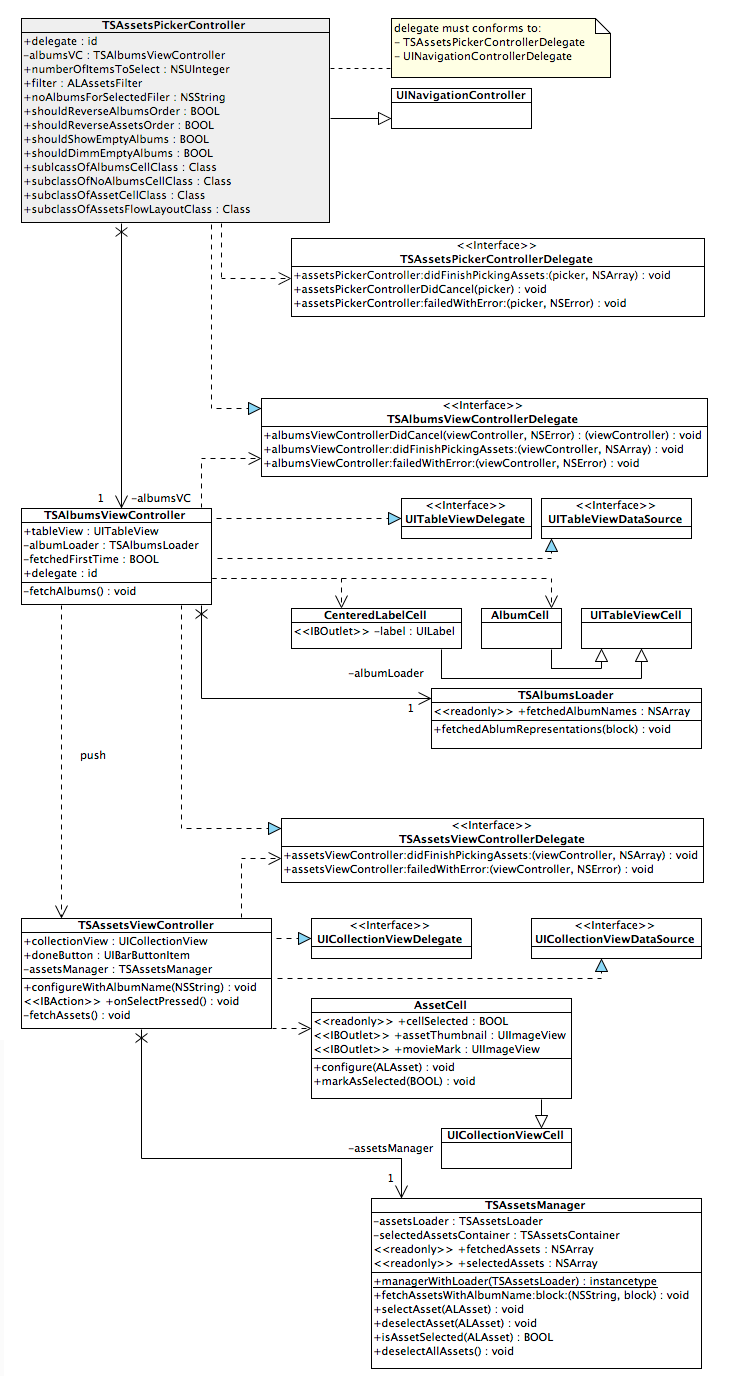
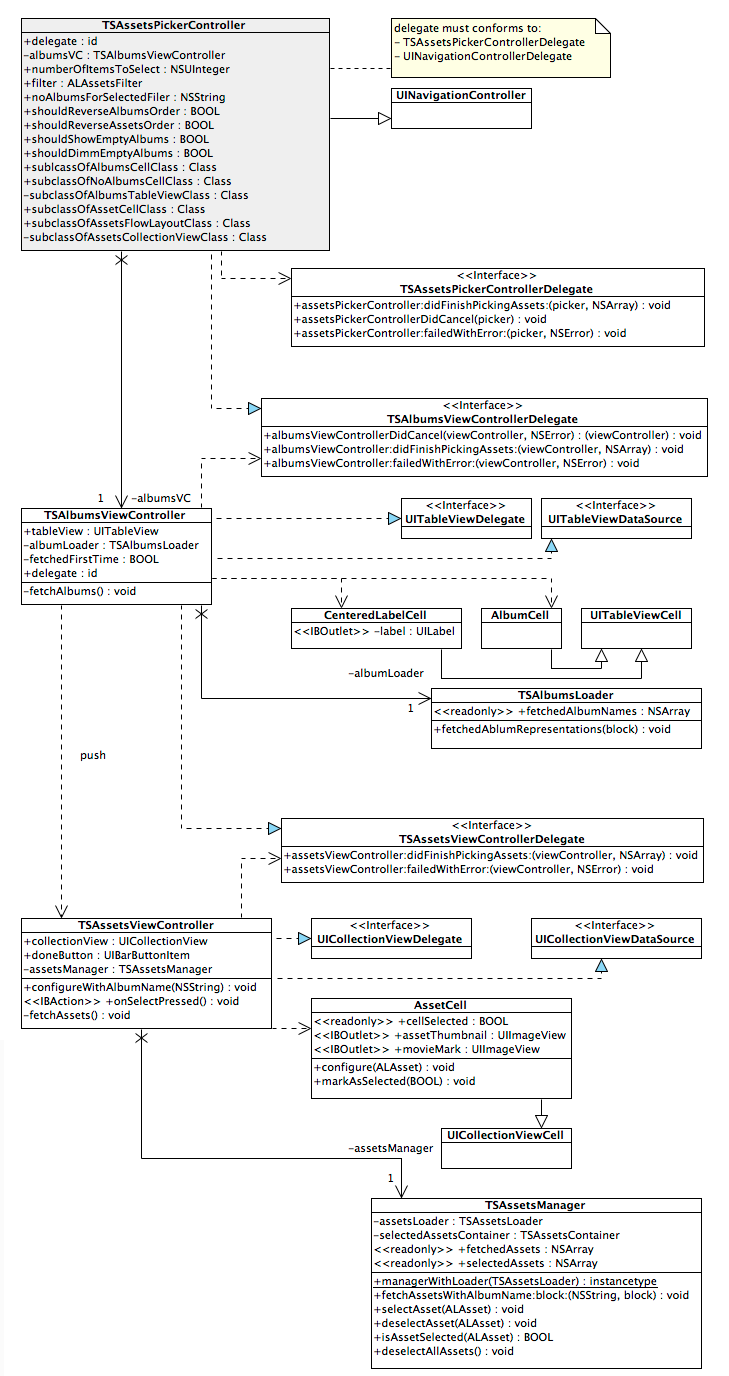
Added AssetsTableView class.

diff --git a/TSAssetsPickerController/TSAssetsPickerController/TSViewController.m b/TSAssetsPickerController/TSAssetsPickerController/TSViewController.m
@@ -13,6 +13,7 @@
 #import "DummyAssetsImporter.h"
 #import "DummyAlbumCell.h"
 #import "DummyNoAlbumsCell.h"
+#import "DummyAlbumsTableView.h"
 #import "DummyAssetCell.h"
 #import "DummyAssetsFlowLayout.h"
 #import "DummyAssetsCollectionView.h"
@@ -61,6 +62,7 @@
         // Custom No Albums Cell which is visible when there is no albums in first view of TSAssetsPickerController
 //        _picker.subclassOfAlbumCellClass = [DummyAlbumCell class];
 //        _picker.subclassOfNoAlbumsCellClass = [DummyNoAlbumsCell class];
+//        _picker.subclassOfAlbumsTableViewClass = [DummyAlbumsTableView class];
 //        _picker.subclassOfAssetCellClass = [DummyAssetCell class];
 //        _picker.subclassOfAssetsFlowLayoutClass = [DummyAssetsFlowLayout class];
 //        _picker.subclassOfAssetsCollectionViewClass = [DummyAssetsCollectionView class];

diff --git a/Classes/Controllers/Picker/TSAssetsPickerController.m b/Classes/Controllers/Picker/TSAssetsPickerController.m
@@ -14,6 +14,7 @@
 #import "NoAlbumsCell.h"
 #import "AssetsFlowLayout.h"
 #import "AssetsCollectionView.h"
+#import "AlbumsTableView.h"
 
 @interface TSAssetsPickerController () < TSAlbumsViewControllerDelegate> {
     TSAlbumsViewController *_albumsVC;
@@ -38,6 +39,7 @@
         
         self.subclassOfAlbumCellClass = [AlbumCell class];
         self.subclassOfNoAlbumsCellClass = [NoAlbumsCell class];
+        self.subclassOfAlbumsTableViewClass = [AlbumsTableView class];
         self.subclassOfAssetCellClass = [AssetCell class];
         self.subclassOfAssetsFlowLayoutClass = [AssetsFlowLayout class];
         self.subclassOfAssetsCollectionViewClass = [AssetsCollectionView class];

diff --git a/Classes/Controllers/Picker/TSAssetsPickerController.h b/Classes/Controllers/Picker/TSAssetsPickerController.h
@@ -68,6 +68,12 @@
 @property (nonatomic) Class subclassOfNoAlbumsCellClass;
 
 /**
+ Set this class if you want to use custom subclass of AlbumsTableView class.
+ This class is UITableView placed in TSAlbumsTableView.
+ */
+@property (nonatomic) Class subclassOfAlbumsTableViewClass;
+
+/**
  Set this class if you want to use custom subclass of AssetCell class.
  This class is used to display assets in Assets view (UICollectionViewCell).
  */

diff --git a/Classes/Controllers/Albums/TSAlbumsViewController.m b/Classes/Controllers/Albums/TSAlbumsViewController.m
@@ -59,7 +59,7 @@
         frame.size.height -= CGRectGetHeight(self.navigationController.navigationBar.frame);
     }
     
-    UITableView *tableView = [[UITableView alloc] initWithFrame:frame style:UITableViewStylePlain];
+    UITableView *tableView = [[_picker.subclassOfAlbumsTableViewClass alloc] initWithFrame:frame style:UITableViewStylePlain];
     tableView.delegate = self;
     tableView.dataSource = self;
     

diff --git a/TSAssetsPickerController/TSAssetsPickerController/Dummy Classes/DummyAlbumsTableView.m b/TSAssetsPickerController/TSAssetsPickerController/Dummy Classes/DummyAlbumsTableView.m
@@ -1,0 +1,18 @@
+//
+//  DummyAlbumsTableView.m
+//  TSAssetsPickerController
+//
+//  Created by Tomasz Szulc on 23.02.2014.
+//  Copyright (c) 2014 Tomasz Szulc. All rights reserved.
+//
+
+#import "DummyAlbumsTableView.h"
+
+@implementation DummyAlbumsTableView
+
+- (void)setNeedsLayout {
+    [super setNeedsLayout];
+    self.backgroundColor = [UIColor redColor];
+}
+
+@end

diff --git a/TSAssetsPickerController/TSAssetsPickerController/Dummy Classes/DummyAlbumsTableView.h b/TSAssetsPickerController/TSAssetsPickerController/Dummy Classes/DummyAlbumsTableView.h
@@ -1,0 +1,13 @@
+//
+//  DummyAlbumsTableView.h
+//  TSAssetsPickerController
+//
+//  Created by Tomasz Szulc on 23.02.2014.
+//  Copyright (c) 2014 Tomasz Szulc. All rights reserved.
+//
+
+#import "AlbumsTableView.h"
+
+@interface DummyAlbumsTableView : AlbumsTableView
+
+@end

diff --git a/TSAssetsPickerController/TSAssetsPickerController/Dummy Classes/DummyAlbumCell.m b/TSAssetsPickerController/TSAssetsPickerController/Dummy Classes/DummyAlbumCell.m
@@ -13,7 +13,8 @@
 - (id)init {
     self = [super init];
     if (self) {
-        self.textLabel.textColor = [UIColor redColor];
+        self.textLabel.textColor = [UIColor greenColor];
+        self.backgroundColor = [UIColor blueColor];
     }
     return self;
 }

diff --git a/Classes/Controllers/Albums/AlbumsTableView.h b/Classes/Controllers/Albums/AlbumsTableView.h
@@ -1,0 +1,13 @@
+//
+//  AlbumsTableView.h
+//  TSAssetsPickerController
+//
+//  Created by Tomasz Szulc on 23.02.2014.
+//  Copyright (c) 2014 Tomasz Szulc. All rights reserved.
+//
+
+#import <UIKit/UIKit.h>
+
+@interface AlbumsTableView : UITableView
+
+@end

diff --git a/Classes/Controllers/Albums/AlbumsTableView.m b/Classes/Controllers/Albums/AlbumsTableView.m
@@ -1,0 +1,13 @@
+//
+//  AlbumsTableView.m
+//  TSAssetsPickerController
+//
+//  Created by Tomasz Szulc on 23.02.2014.
+//  Copyright (c) 2014 Tomasz Szulc. All rights reserved.
+//
+
+#import "AlbumsTableView.h"
+
+@implementation AlbumsTableView
+
+@end

diff --git a/README.md b/README.md
@@ -46,6 +46,7 @@ Configuration
 | shouldDimmEmptyAlbums					| `BOOL`			| YES					|
 | subclassOfAlbumCellClass				| `Class`			| AlbumCell				|
 | subclassOfNoAlbumsCell				| `Class`			| NoAlbumsCell			|
+| subclassOfAlbumsTableViewClass		| `Class`			| AlbumsTableView		|
 | subclassOfAssetCell					| `Class`			| AssetCell				|
 | subclassOfAssetsFlowLayoutClass		| `Class`			| AssetsFlowLayout 		|
 | subclassOfAssetsCollectionViewClass 	| `Class`			| AssetsCollectionView 	|
@@ -116,6 +117,12 @@ Properties of `TSAssetsPickerController` with description
  This class is used to display "noAlbumsForSelectedFilter" property on Albums view.
  */
 @property (nonatomic) Class subclassOfNoAlbumsCellClass;
+
+/**
+ Set this class if you want to use custom subclass of AlbumsTableView class.
+ This class is UITableView placed in TSAlbumsTableView.
+ */
+@property (nonatomic) Class subclassOfAlbumsTableViewClass;
 
 /**
  Set this class if you want to use custom subclass of AssetCell class.
